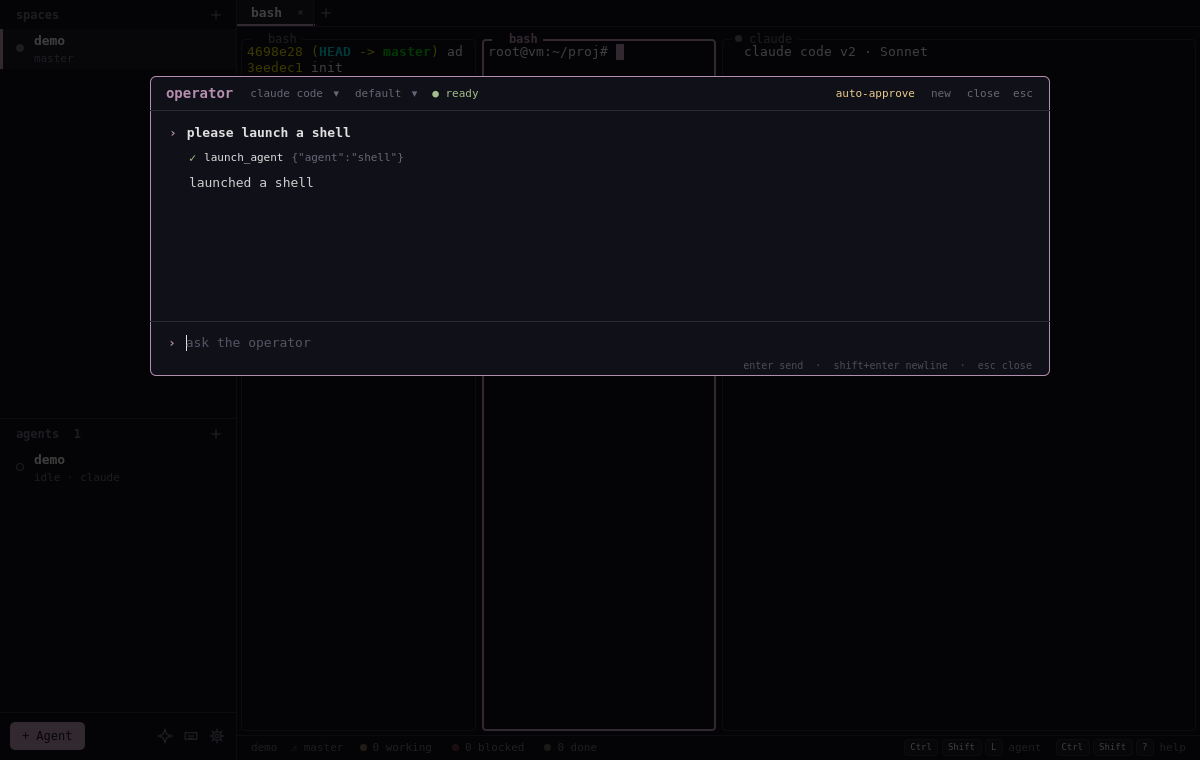
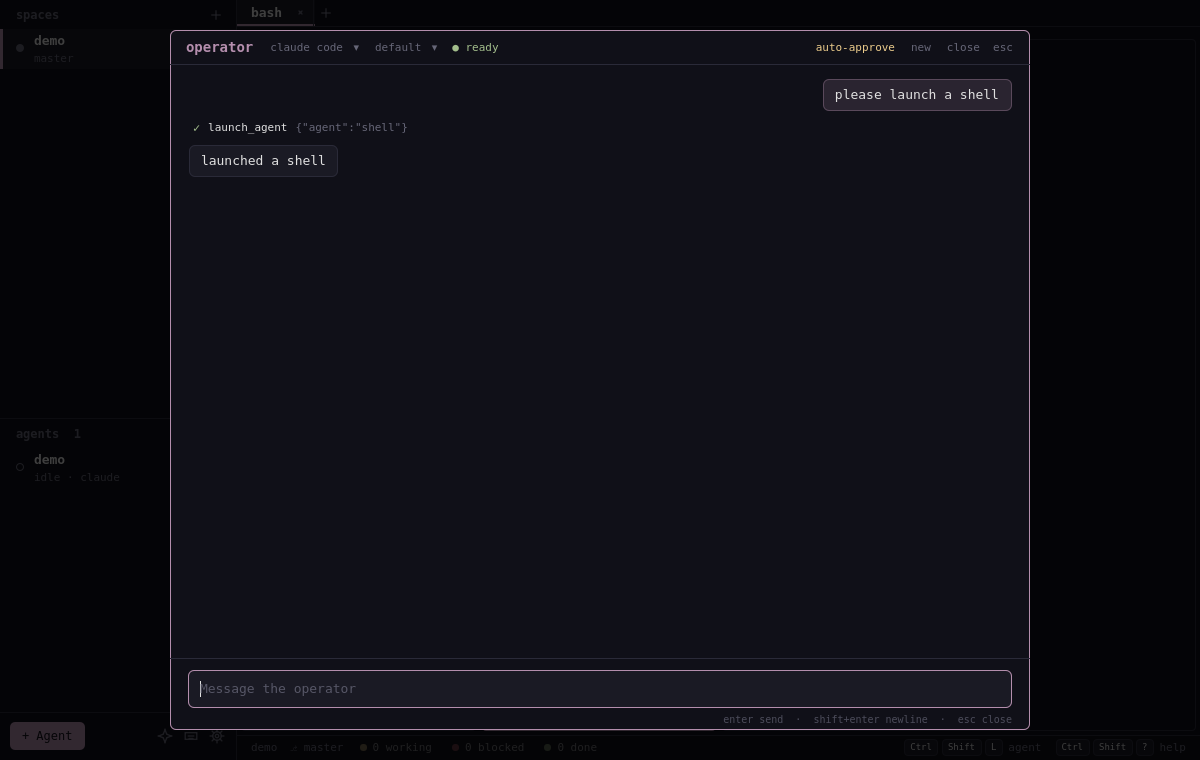
Operator: back to a chat, at a fixed size
The previous commit turned the operator into a terminal transcript in a
window that grew with the conversation from the top of the screen. It stopped
reading as a chat, and the window kept changing size. It is a chat again, in
nebula's flat style:

- a fixed, centered window (860 x 700 at most), like before
- your messages are bubbles on the right (accent tint), the operator's on the
  left (panel), 6 px corners like the rest of nebula, no avatars
- tool calls, thinking, errors and approvals stay compact one-liners under
  the operator's bubbles; approvals still answer with y / n, ctrl+c stops
- a framed input box at the bottom, and a centered welcome with suggestions

The one-line header (operator · agent · model · state) is kept.

Claude-Session: https://claude.ai/code/session_01Ga8mU7LFbJLKzmxGQa7TNy

Changed region(s): [[0.1542, 0.8776, 0.8633, 0.9684], [0.1233, 0.0303, 0.5858, 0.2421], [0.6167, 0.0605, 0.8633, 0.1513]]

diff --git a/qml/OperatorPanel.qml b/qml/OperatorPanel.qml
@@ -71,15 +71,12 @@ FocusScope {
     Rectangle { anchors.fill: parent; color: Qt.rgba(0, 0, 0, 0.72) }
     MouseArea { anchors.fill: parent; onClicked: app.hideOverlay() }
 
-    // sized to the conversation, like a command palette: starts compact under the top edge and grows downwards
+    // a stable chat window: centered, the same size whatever the conversation holds
     Rectangle {
         id: box
-        readonly property real body: root.log.length === 0 ? empty.implicitHeight + 36 : msgs.contentHeight + msgs.topMargin + msgs.bottomMargin
-        anchors.horizontalCenter: parent.horizontalCenter
-        y: Math.max(16, Math.min(root.height * 0.1, root.height - height - 16))
-        width: Math.min(root.width - 32, 900)
-        height: Math.min(root.height - 32, Math.max(300, header.height + body + composer.height))
-        Behavior on height { NumberAnimation { duration: 120; easing.type: Easing.OutCubic } }
+        anchors.centerIn: parent
+        width: Math.min(root.width - 48, 860)
+        height: Math.min(root.height - 48, 700)
         radius: 6
         color: theme.bg
         border.width: 1
@@ -190,38 +187,58 @@ FocusScope {
                     y: msg.newTurn ? 8 : 0
                     width: parent.width
 
-                    // you: a prompt line
-                    Row {
+                    // you: a bubble on the right
+                    Item {
                         visible: msg.kind === "user"
-                        x: root.pad; spacing: 10
-                        Text { text: "›"; color: theme.accent; font.bold: true; font.family: theme.fontFamily; font.pixelSize: root.fs }
-                        TextEdit {
-                            width: msgs.width - root.pad * 2 - 20
-                            readOnly: true; selectByMouse: true; wrapMode: TextEdit.Wrap
-                            text: msg.kind === "user" ? msg.modelData.text : ""
-                            color: theme.fg; font.bold: true
-                            selectionColor: theme.accent; selectedTextColor: theme.bg
-                            font.family: theme.fontFamily; font.pixelSize: root.fs
+                        width: parent.width; height: visible ? ub.height : 0
+                        Rectangle {
+                            id: ub
+                            anchors { right: parent.right; rightMargin: root.pad }
+                            width: Math.min(msgs.width * 0.75, uText.implicitWidth + 24)
+                            height: uText.implicitHeight + 16
+                            radius: 6
+                            color: Qt.rgba(theme.accent.r, theme.accent.g, theme.accent.b, 0.16)
+                            border.width: 1; border.color: Qt.rgba(theme.accent.r, theme.accent.g, theme.accent.b, 0.45)
+                            TextEdit {
+                                id: uText
+                                x: 12; y: 8; width: Math.min(implicitWidth, msgs.width * 0.75 - 24)
+                                readOnly: true; selectByMouse: true; wrapMode: TextEdit.Wrap
+                                text: msg.kind === "user" ? msg.modelData.text : ""
+                                color: theme.fg; selectionColor: theme.accent; selectedTextColor: theme.bg
+                                font.family: theme.fontFamily; font.pixelSize: root.fs
+                            }
                         }
                     }
 
-                    // the operator: plain text under your prompt
-                    TextEdit {
+                    // the operator: a bubble on the left
+                    Item {
                         visible: msg.kind === "assistant"
-                        x: root.pad + 20; width: msgs.width - root.pad * 2 - 20
-                        readOnly: true; selectByMouse: true; wrapMode: TextEdit.Wrap
-                        textFormat: TextEdit.MarkdownText
-                        text: msg.kind === "assistant" ? msg.modelData.text : ""
-                        color: theme.fg; opacity: 0.92
-                        selectionColor: theme.accent; selectedTextColor: theme.bg
-                        font.family: theme.fontFamily; font.pixelSize: root.fs
-                        onLinkActivated: (l) => Qt.openUrlExternally(l)
+                        width: parent.width; height: visible ? ab.height : 0
+                        Rectangle {
+                            id: ab
+                            x: root.pad
+                            width: Math.min(msgs.width * 0.82, aText.implicitWidth + 24)
+                            height: aText.implicitHeight + 16
+                            radius: 6
+                            color: theme.panel
+                            border.width: 1; border.color: theme.border
+                            TextEdit {
+                                id: aText
+                                x: 12; y: 8; width: Math.min(implicitWidth, msgs.width * 0.82 - 24)
+                                readOnly: true; selectByMouse: true; wrapMode: TextEdit.Wrap
+                                textFormat: TextEdit.MarkdownText
+                                text: msg.kind === "assistant" ? msg.modelData.text : ""
+                                color: theme.fg; selectionColor: theme.accent; selectedTextColor: theme.bg
+                                font.family: theme.fontFamily; font.pixelSize: root.fs
+                                onLinkActivated: (l) => Qt.openUrlExternally(l)
+                            }
+                        }
                     }
 
                     // thinking: one dim line
                     Text {
                         visible: msg.kind === "thought"
-                        x: root.pad + 20; width: msgs.width - root.pad * 2 - 20
+                        x: root.pad + 4; width: msgs.width - root.pad * 2 - 4
                         text: msg.kind === "thought" ? "∴ " + msg.modelData.text.replace(/\*+/g, "").replace(/\s+/g, " ") : ""
                         maximumLineCount: 1; elide: Text.ElideRight
                         color: theme.muted; font.italic: true
@@ -235,7 +252,7 @@ FocusScope {
                         readonly property bool running: st === "" || st === "in_progress" || st === "pending"
                         readonly property color tone: st === "completed" ? theme.green : (st === "failed" || st === "stopped") ? theme.red : theme.yellow
                         visible: msg.kind === "tool"
-                        x: root.pad + 20; spacing: 8
+                        x: root.pad + 4; spacing: 8
                         Text {
                             text: tool.running && root.busy ? root.frames[root.spin] : tool.st === "completed" ? "✓" : tool.st === "failed" ? "✗" : tool.st === "stopped" ? "■" : "·"
                             color: tool.tone; font.family: theme.fontFamily; font.pixelSize: root.fs - 1
@@ -272,7 +289,7 @@ FocusScope {
                     // an error: red rule, message, keyboard-style actions
                     Item {
                         visible: msg.kind === "error"
-                        x: root.pad + 20; width: msgs.width - root.pad * 2 - 20
+                        x: root.pad + 4; width: msgs.width - root.pad * 2 - 4
                         height: visible ? eCol.implicitHeight : 0
                         Rectangle { width: 2; height: parent.height; color: theme.red }
                         Column {
@@ -307,7 +324,7 @@ FocusScope {
                 // working
                 Text {
                     visible: root.busy && !root.asking
-                    x: root.pad + 20; y: 8
+                    x: root.pad + 4; y: 8
                     text: root.frames[root.spin] + " " + (operatorAgent.status || "working").toLowerCase()
                     color: theme.muted; font.family: theme.fontFamily; font.pixelSize: root.fs - 2
                 }
@@ -315,7 +332,7 @@ FocusScope {
                 Item {
                     id: ask
                     visible: root.asking
-                    x: root.pad + 20; y: 8; width: parent.width - root.pad * 2 - 20
+                    x: root.pad + 4; y: 8; width: parent.width - root.pad * 2 - 4
                     height: aCol.implicitHeight
                     Rectangle { width: 2; height: parent.height; color: theme.yellow }
                     Column {
@@ -336,37 +353,45 @@ FocusScope {
             }
         }
 
-        // ── empty: a quiet prompt and a few things to try ──
+        // ── empty: a centered welcome with a few things to try ──
         Column {
             id: empty
             visible: root.log.length === 0
-            anchors { left: parent.left; leftMargin: root.pad; right: parent.right; rightMargin: root.pad; top: header.bottom; topMargin: 18 }
-            spacing: 6
+            anchors { horizontalCenter: msgs.horizontalCenter; verticalCenter: msgs.verticalCenter }
+            width: Math.min(msgs.width - root.pad * 2, 560)
+            spacing: 10
+            Icon { anchors.horizontalCenter: parent.horizontalCenter; name: "operator"; size: 22; color: theme.accent }
             Text {
-                width: parent.width; wrapMode: Text.WordWrap
+                width: parent.width; horizontalAlignment: Text.AlignHCenter
+                text: "What should I do?"; color: theme.fg; font.bold: true
+                font.family: theme.fontFamily; font.pixelSize: root.fs + 3
+            }
+            Text {
+                width: parent.width; horizontalAlignment: Text.AlignHCenter; wrapMode: Text.WordWrap
                 text: !operatorAgent.available
                     ? "No compatible agent is installed. Install Codex, Claude Code or opencode, or set a command in Settings › Agents & AI."
-                    : "The operator runs nebula for you: it launches and prompts your agents, reads their panes, answers their prompts and arranges the workspace."
+                    : "I run nebula for you: I launch and prompt your agents, read their panes, answer their prompts and arrange the workspace."
                 color: theme.muted; font.family: theme.fontFamily; font.pixelSize: root.fs - 1
-                bottomPadding: 8
+                bottomPadding: 6
             }
             Repeater {
                 model: operatorAgent.available ? root.suggestions : []
                 delegate: Rectangle {
                     required property string modelData
-                    required property int index
-                    width: parent.width; height: root.fs + 12; radius: 4
+                    width: parent.width; height: root.fs + 16; radius: 6
                     color: sHover.hovered ? theme.panel : "transparent"
-                    Row {
-                        x: 8; anchors.verticalCenter: parent.verticalCenter; spacing: 10
-                        Text { text: "›"; color: sHover.hovered ? theme.accent : theme.border; font.bold: true; font.family: theme.fontFamily; font.pixelSize: root.fs }
-                        Text { text: modelData; color: sHover.hovered ? theme.fg : theme.muted; font.family: theme.fontFamily; font.pixelSize: root.fs - 1 }
+                    border.width: 1; border.color: sHover.hovered ? theme.accent : theme.border
+                    Text {
+                        x: 12; anchors.verticalCenter: parent.verticalCenter; width: parent.width - 24; elide: Text.ElideRight
+                        text: modelData; color: sHover.hovered ? theme.fg : theme.muted
+                        font.family: theme.fontFamily; font.pixelSize: root.fs - 1
                     }
                     HoverHandler { id: sHover; cursorShape: Qt.PointingHandCursor }
                     TapHandler { onTapped: root.submit(modelData) }
                 }
             }
             HeaderButton {
+                anchors.horizontalCenter: parent.horizontalCenter
                 visible: !operatorAgent.available
                 label: "open settings"; tone: theme.accent
                 onClicked: { app.hideOverlay(); app.setSettingsVisible(true) }
@@ -397,20 +422,19 @@ FocusScope {
                 HeaderButton { anchors.verticalCenter: parent.verticalCenter; label: "drop"; onClicked: root.contextSent = true }
             }
 
-            Item {
+            // a chat input box: framed, accent border while typing
+            Rectangle {
                 id: inputRow
-                x: root.pad; y: ctx.height + (ctx.visible ? 12 : 12)
+                x: root.pad; y: ctx.height + 12
                 width: parent.width - root.pad * 2
-                height: Math.max(root.fs + 8, Math.min(160, edit.contentHeight + 4))
-                Text {
-                    id: promptMark
-                    y: 2
-                    text: "›"; color: edit.activeFocus ? theme.accent : theme.muted; font.bold: true
-                    font.family: theme.fontFamily; font.pixelSize: root.fs
-                }
+                height: Math.max(root.fs + 22, Math.min(160, edit.contentHeight + 22))
+                radius: 6
+                color: theme.panel
+                border.width: 1
+                border.color: edit.activeFocus ? theme.accent : theme.border
                 Flickable {
                     id: fl
-                    anchors { left: promptMark.right; leftMargin: 10; right: parent.right; top: parent.top; bottom: parent.bottom; topMargin: 2 }
+                    anchors { fill: parent; leftMargin: 12; rightMargin: 12; topMargin: 11; bottomMargin: 11 }
                     clip: true
                     contentWidth: width
                     contentHeight: edit.contentHeight
@@ -442,7 +466,7 @@ FocusScope {
                         }
                         Text {
                             visible: edit.text === ""
-                            text: root.asking ? "y to allow, n to deny" : root.conn === "ready" ? "ask the operator" : "ask the operator (it connects when you send)"
+                            text: root.asking ? "y to allow, n to deny" : root.conn === "ready" ? "Message the operator" : "Message the operator (it connects when you send)"
                             color: theme.muted; opacity: 0.8
                             font: edit.font
                         }
